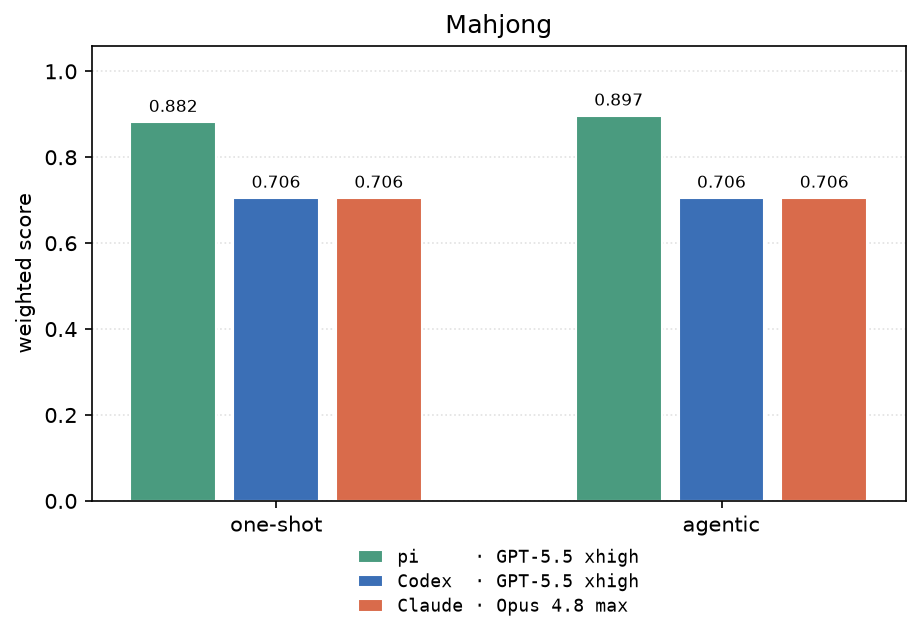
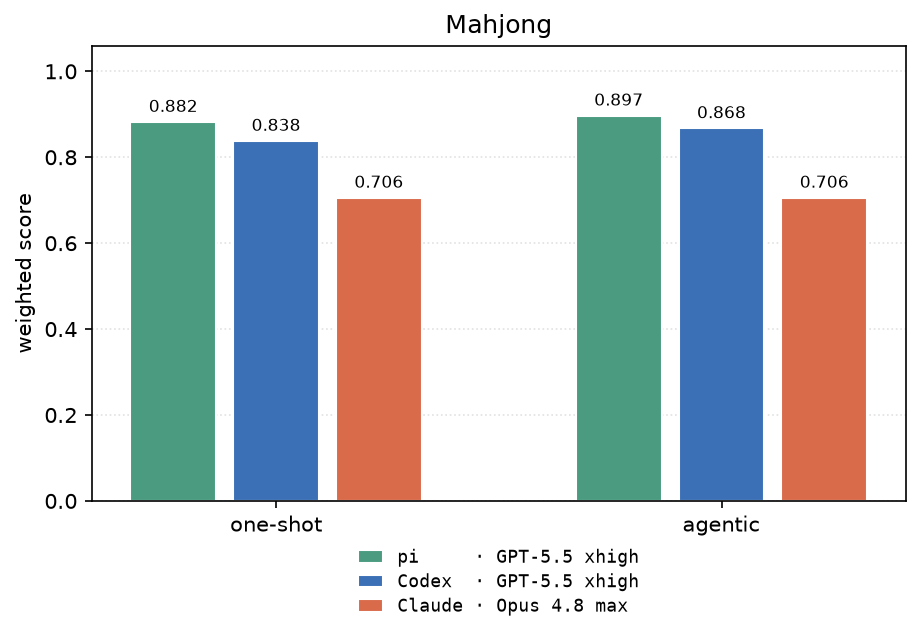
refresh mahjong plots with pi and codex scores

Changed region(s): [[0.7304, 0.1489, 0.8522, 0.3276], [0.2435, 0.1787, 0.3652, 0.3276]]

diff --git a/plots/collect_scores.py b/plots/collect_scores.py
@@ -47,6 +47,14 @@ PLOT_VARIANT = {
     "agentic": "agentic",
 }
 
+# Quality rows [05, 06, 90] when outputs/ was cleared but scores live in git history.
+PINNED_QUALITY: dict[str, dict[tuple[str, str], list[float]]] = {
+    "mjh": {
+        ("pi", "one-shot"): [1.0, 1.0, 0.60],
+        ("pi", "agentic"): [1.0, 1.0, 0.65],
+    },
+}
+
 
 def judge_backends_for(impl_backend: str) -> tuple[str, ...]:
     if impl_backend == "claude":
@@ -109,6 +117,14 @@ def collect_game_scores(game: str) -> dict:
                     row.append(1.0 if value is None else value)
             plot_key = (PLOT_BACKEND[impl], PLOT_VARIANT[variant])
             scores[plot_key] = row
+
+    slug = GAME_SHORT[game]
+    for plot_key, pinned in PINNED_QUALITY.get(slug, {}).items():
+        impl = "gpt" if plot_key[0] == "pi" else plot_key[0]
+        variant = "oneshot" if plot_key[1] == "one-shot" else "agentic"
+        stem = output_stem(game, impl, variant)
+        if not (OUT_DIR / f"{stem}_checks.txt").exists():
+            scores[plot_key] = pinned
 
     return {
         "title": GAME_TITLES[game],
